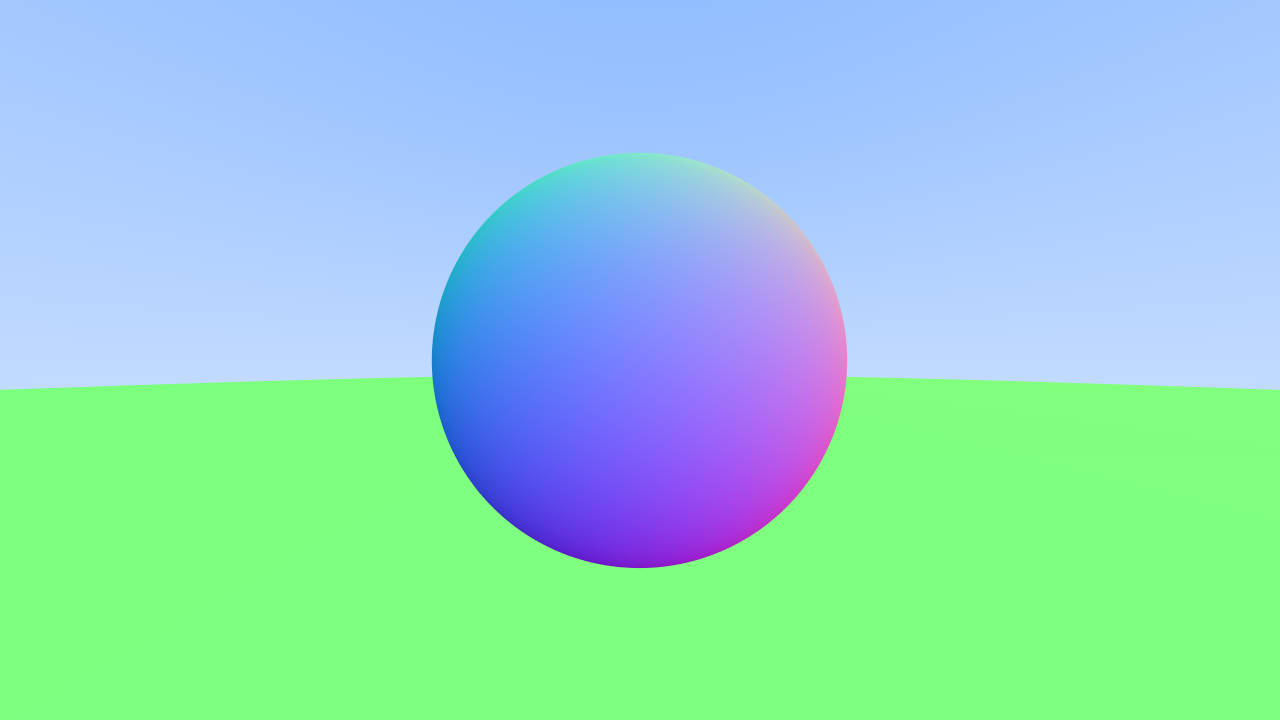
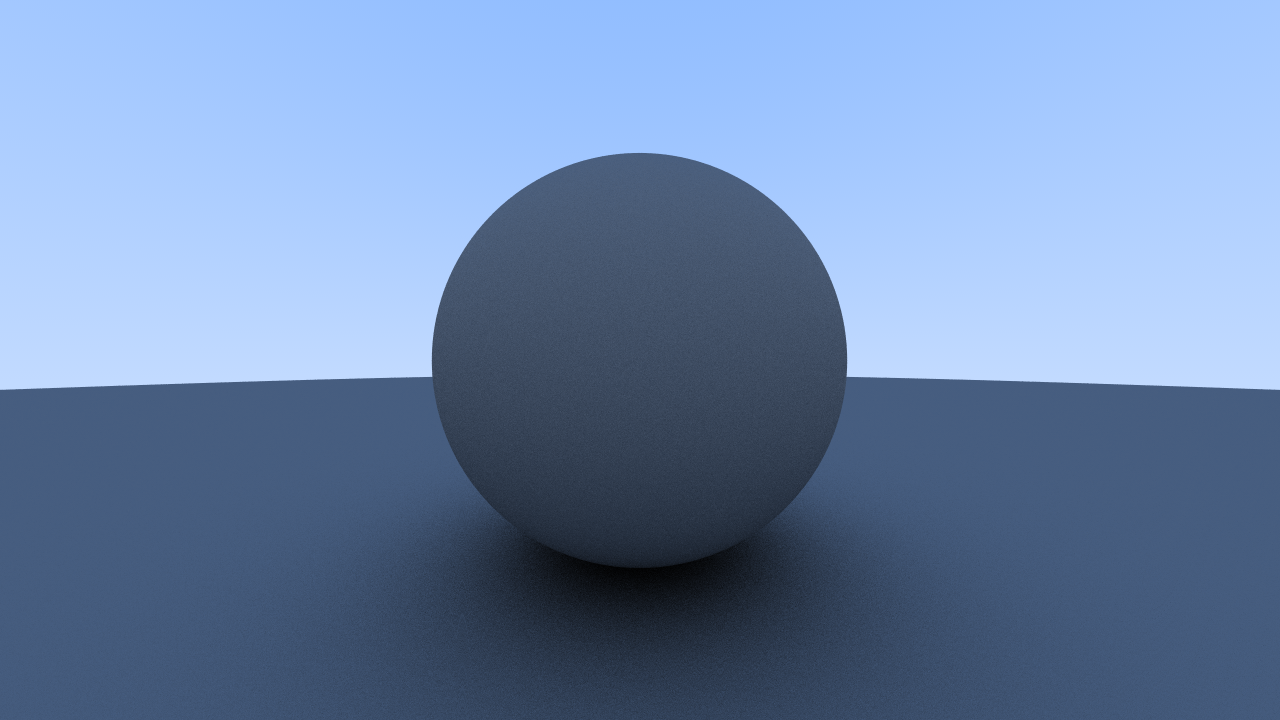
Create simple diffuse material
- Use mutex to lock Seed

diff --git a/Raytracing.cpp b/Raytracing.cpp
@@ -8,11 +8,8 @@
 #include "LinearFeedbackShift.h"
 
 bool Image::PrintToConsole = false;
-unsigned int LinearFeedbackShift::Seed = 64;
 
 Raytracing::Raytracing() {
-	std::time_t current_time = time(0);
-	LinearFeedbackShift::Seed = static_cast<unsigned int>(current_time);
 
 	// Create Objects
 	//Sphere sphere1(Vector3D(0, 0, -1), 0.5);
@@ -22,7 +19,7 @@ Raytracing::Raytracing() {
 	// Image
 	m_imageWidth = 1280;
 	m_imageHeight = 720;
-	m_samplesPerPixel = 128;
+	m_samplesPerPixel = 100;
 
 	m_render = Image(m_imageWidth, m_imageHeight, 3);
 
@@ -33,11 +30,14 @@ Raytracing::Raytracing() {
 	float focal_length = 1.0f;
 
 	m_camera = Camera(aspect_ratio, viewport_height, viewport_width, focal_length);
+
+	// Other
+	m_maxDepth = 50;
 }
 
 bool Raytracing::Run() {
 	// Render
-	const int tileSize = 32;
+	const int tileSize = 256;
 	const size_t maxThreads = std::thread::hardware_concurrency();
 	
 	std::cout << "Max Threads: " << maxThreads << '\n';
@@ -93,14 +93,32 @@ Raytracing::~Raytracing() {
 	m_objects.clear();
 }
 
-const Vector3D Raytracing::RayColor(Ray& ray) {
+const Vector3D Raytracing::RandomInUnitSphere() {
+	while (true) {
+		Vector3D p = Vector3D::Random(-1.0f, 1.0f);
+
+		if (p.SqrMagnitude() >= 1) continue;
+
+		return p;
+	}
+
+	return Vector3D();
+}
+
+const Vector3D Raytracing::RayColor(Ray& ray, const int depth) {
+	// If we've exceeded the ray bounce limit, no more light is gathered.
+	if (depth <= 0) return Vector3D(0.0f, 0.0f, 0.0f);
+
 	// draw objects
 	HitRec rec;
-	if (HitObject(ray, 0.0f, INFINITY, rec)) {
-		Vector3D col = rec.normal + Vector3D(1.0f, 1.0f, 1.0f);
-		col *= 0.5f/* * 255.0f*/;
+	if (HitObject(ray, 0.001f, INFINITY, rec)) {
+		//Vector3D col = rec.normal + Vector3D(1.0f, 1.0f, 1.0f);
+		//col *= 0.5f/* * 255.0f*/;
 
-		return col;
+		Vector3D target = rec.point + rec.normal + RandomInUnitSphere();
+		Ray tempRay = Ray(rec.point, target - rec.point);
+
+		return RayColor(tempRay, depth - 1) * 0.5f;
 	}
 
 	// draw backround
@@ -135,12 +153,12 @@ void Raytracing::Render(const int minX, const int minY, const int maxX, const in
 			// ----- SET COLOR -----
 			Vector3D pixel_color = Vector3D(0.0f, 0.0f, 0.0f);
 			for (int s = 0; s < m_samplesPerPixel; s++) {
-				float u = (x + LinearFeedbackShift::RandFloat(8)) / (float)(m_imageWidth - 1);
-				float v = (y + LinearFeedbackShift::RandFloat(8)) / (float)(m_imageHeight - 1);
+				float u = (x + LinearFeedbackShift::RandFloat(32)) / (float)(m_imageWidth - 1);
+				float v = (y + LinearFeedbackShift::RandFloat(32)) / (float)(m_imageHeight - 1);
 
 				Ray r = m_camera.GetRay(u, v);
 
-				pixel_color += RayColor(r);
+				pixel_color += RayColor(r, m_maxDepth);
 			}
 
 			pixel_color *= (1.0f / (float)m_samplesPerPixel);

diff --git a/Vector3D.cpp b/Vector3D.cpp
@@ -1,6 +1,7 @@
 #include <cmath>
 
 #include "Vector3D.h"
+#include "LinearFeedbackShift.h"
 
 Vector3D::Vector3D() {
 	m_x = 0.0f;
@@ -190,6 +191,14 @@ void Vector3D::UnitVector() {
 	m_x /= mag;
 	m_y /= mag;
 	m_z /= mag;
+}
+
+Vector3D Vector3D::Random() {
+	return Vector3D(LinearFeedbackShift::RandFloat(16), LinearFeedbackShift::RandFloat(16), LinearFeedbackShift::RandFloat(32));
+}
+
+Vector3D Vector3D::Random(const float min, const float max) {
+	return Vector3D(LinearFeedbackShift::RandFloatRange(min, max, 16), LinearFeedbackShift::RandFloatRange(min, max, 16), LinearFeedbackShift::RandFloatRange(min, max, 32));
 }
 
 Vector3D::~Vector3D() {

diff --git a/Raytracing.h b/Raytracing.h
@@ -17,7 +17,9 @@ public:
 	~Raytracing();
 
 private:
-	const Vector3D RayColor(Ray& ray);
+	const Vector3D RandomInUnitSphere();
+	const Vector3D RayColor(Ray& ray, const int depth);
+
 	const bool HitObject(Ray& ray, const float t_min, const float t_max, HitRec& rec);
 
 	void Render(const int minX, const int minY, const int maxX, const int maxY);
@@ -29,5 +31,5 @@ private: // member variables
 	Camera m_camera;
 	Image m_render;
 
-	int m_imageWidth, m_imageHeight, m_samplesPerPixel;
+	int m_imageWidth, m_imageHeight, m_samplesPerPixel, m_maxDepth;
 };

diff --git a/LinearFeedbackShift.cpp b/LinearFeedbackShift.cpp
@@ -77,6 +77,9 @@ unsigned int LinearFeedbackShift::RandUInt(const unsigned int bitCount) {
 	unsigned int count = bitCount > 32 ? 32 : bitCount;
 	unsigned int out = 0;
 
+	std::mutex mtx;
+
+	mtx.lock();
 	for (int i = bitCount - 1; i >= 0; i--) {
 		out = out | ((LinearFeedbackShift::Seed & 0b1) << i);
 
@@ -85,6 +88,7 @@ unsigned int LinearFeedbackShift::RandUInt(const unsigned int bitCount) {
 
 		LinearFeedbackShift::Seed = (LinearFeedbackShift::Seed >> 1) | (newBit << 31);
 	}
+	mtx.unlock();
 	return out;
 }
 

diff --git a/main.cpp b/main.cpp
@@ -1,10 +1,16 @@
 #include "Raytracing.h"
+#include "LinearFeedbackShift.h"
 #include <chrono>
 #include <fstream>
 
 Raytracing raytracing;
 
+unsigned int LinearFeedbackShift::Seed = 64;
+
 int main() {
+	std::time_t current_time = time(0);
+	LinearFeedbackShift::Seed = static_cast<unsigned int>(current_time);
+
 	auto begin = std::chrono::high_resolution_clock::now();
 
 	if (!raytracing.Run()) return -1;

diff --git a/LinearFeedbackShift.h b/LinearFeedbackShift.h
@@ -1,5 +1,6 @@
 #ifndef LINEARFEEDBACKSHIFT_H
 #define LINEARFEEDBACKSHIFT_H
+#include <mutex>
 
 class LinearFeedbackShift {
 public:
@@ -12,6 +13,8 @@ public:
 	static unsigned int RandUInt(const unsigned int bitCount);
 
 	static unsigned int Seed;
+
+	
 
 	~LinearFeedbackShift();
 

diff --git a/Vector3D.h b/Vector3D.h
@@ -37,6 +37,10 @@ public:
 	void CrossProduct(const Vector3D& copyVector);
 	void UnitVector();
 
+	// Random
+	static Vector3D Random();
+	static Vector3D Random(const float min, const float max);
+
 	~Vector3D();
 
 public: // getters
